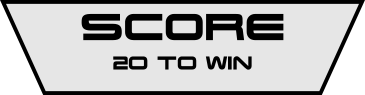
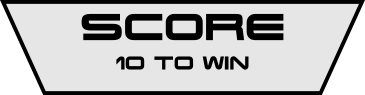
Minor fixes

Changed region(s): [[0.3014, 0.5895, 0.6932, 0.7368]]

diff --git a/src/camera.cpp b/src/camera.cpp
@@ -1,5 +1,7 @@
 #include "camera.h"
 
+#include <iostream>
+
 const double SCREEN_WIDTH = 1280.0;
 const double SCREEN_HEIGHT = 720.0;
 
@@ -57,9 +59,6 @@ void Camera::update(const std::vector<Point>& player_positions) {
         scale = 0.95 * scale + 0.05 * desired_scale;
         x = 0.95 * x + 0.05 * desired_x;
         y = 0.95 * y + 0.05 * desired_y;
-
-        x = std::max(SCREEN_WIDTH * scale * 0.5, x);
-        x = std::min(level_width - SCREEN_WIDTH * scale * 0.5, x);
 
         y = std::min(level_height -  SCREEN_HEIGHT * scale * 0.5, y);
     }

diff --git a/src/main.cpp b/src/main.cpp
@@ -17,9 +17,9 @@
 const int screen_width = 1280;
 const int screen_height = 720;
 
-const bool debug_keyboard_player = false;
+const bool debug_keyboard_player = true;
 
-const bool debug_other_player = false;
+const bool debug_other_player = true;
 bool other_player_start_button = true;
 
 struct MainData {

diff --git a/src/gamescreen.cpp b/src/gamescreen.cpp
@@ -18,7 +18,7 @@
 #define WALL_GRACE 5
 #define GROUND_GRACE 5
 
-const int SCORE_TO_WIN = 20;
+const int SCORE_TO_WIN = 10;
 
 const int FIRE_LENGTH = 200;
 
